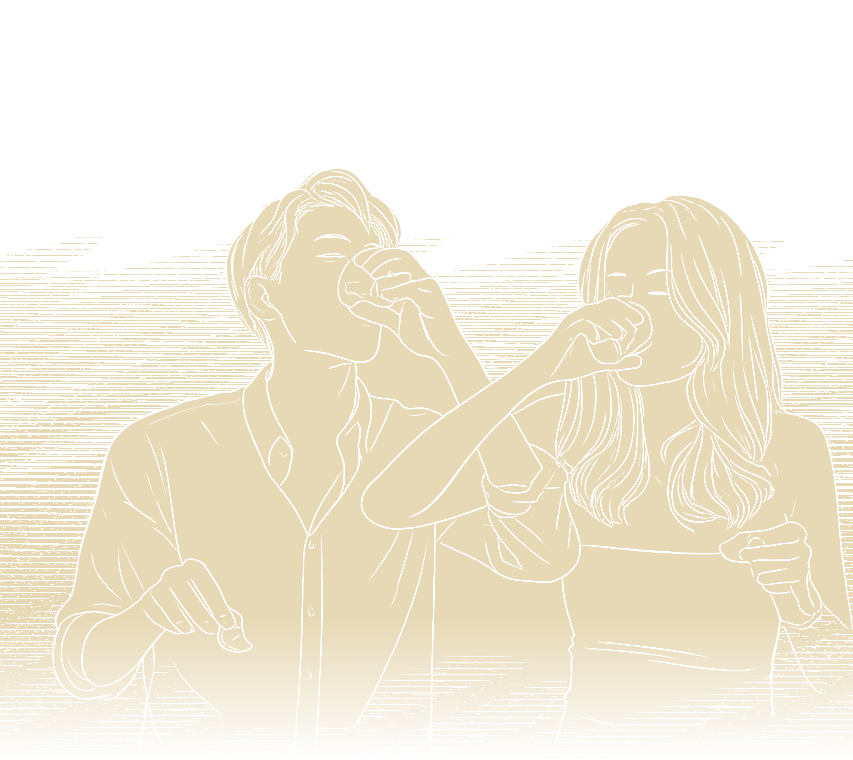
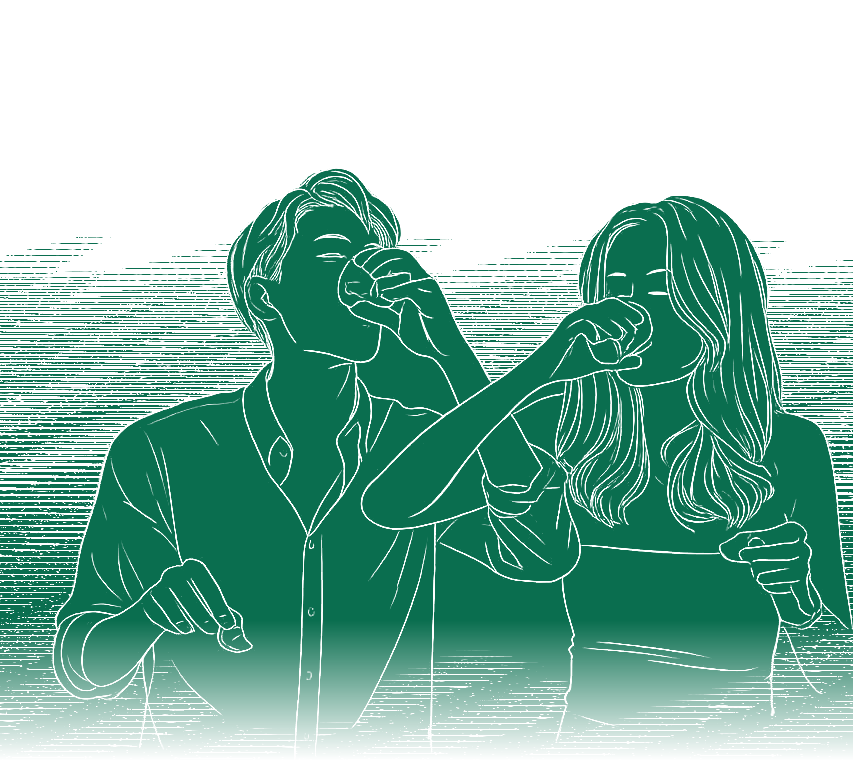
Move couple illustration above 'Better late than never'; use emerald variant

diff --git a/src/pages/Home.jsx b/src/pages/Home.jsx
@@ -21,15 +21,15 @@ export default function Home() {
 
       <section className="block">
         <div className="wrap">
-          <p className="muted">
-            Better late than never.<br />Join us for the night!
-          </p>
           <img
             src="/couple-figures.png"
             alt="Sean and Wei Qi"
             className="intro-img"
             loading="lazy"
           />
+          <p className="muted">
+            Better late than never.<br />Join us for the night!
+          </p>
         </div>
       </section>
     </>

diff --git a/src/styles.css b/src/styles.css
@@ -153,7 +153,7 @@ p.muted{color:var(--muted)}
 
 .intro-img{
   display:block;
-  margin:32px auto 0;
+  margin:0 auto 32px;
   max-width:min(420px, 82vw);
   width:100%;
   height:auto;
